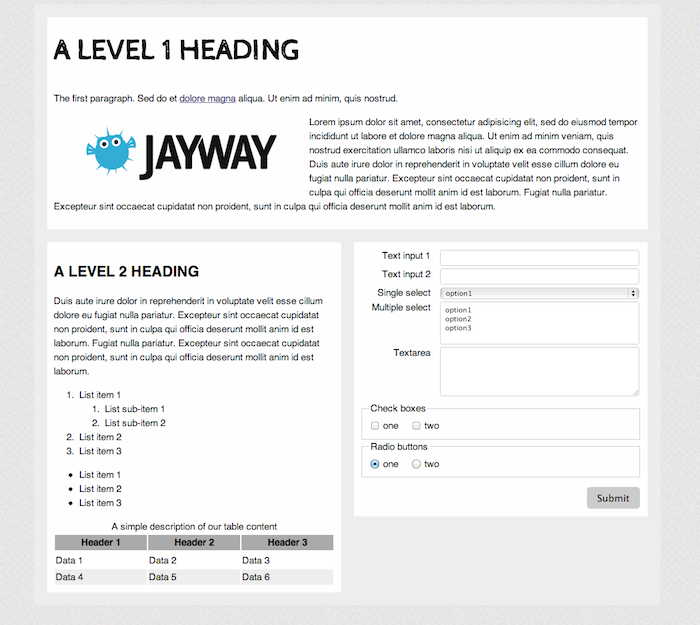
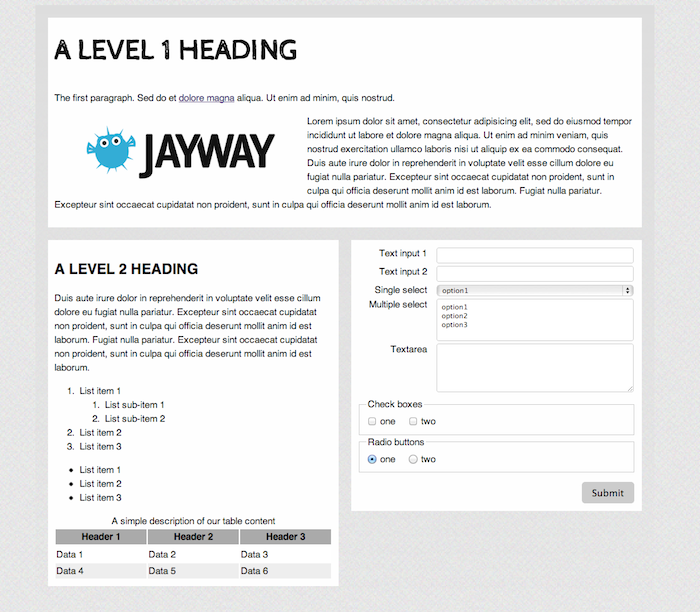
Styled the freeride a bit more.

diff --git a/html-css-course/labs/lab11/solution-styles.css b/html-css-course/labs/lab11/solution-styles.css
@@ -31,6 +31,13 @@ div {
     margin: 0px auto;
     width: 960px;
     background-color: #ededed;
+    background: -moz-linear-gradient(top, rgba(221,221,221,1) 0%, rgba(221,221,221,0) 100%); /* FF3.6+ */
+    background: -webkit-gradient(linear, left top, left bottom, color-stop(0%,rgba(221,221,221,1)), color-stop(100%,rgba(221,221,221,0))); /* Chrome,Safari4+ */
+    background: -webkit-linear-gradient(top, rgba(221,221,221,1) 0%,rgba(221,221,221,0) 100%); /* Chrome10+,Safari5.1+ */
+    background: -o-linear-gradient(top, rgba(221,221,221,1) 0%,rgba(221,221,221,0) 100%); /* Opera 11.10+ */
+    background: -ms-linear-gradient(top, rgba(221,221,221,1) 0%,rgba(221,221,221,0) 100%); /* IE10+ */
+    background: linear-gradient(to bottom, rgba(221,221,221,1) 0%,rgba(221,221,221,0) 100%); /* W3C */
+    filter: progid:DXImageTransform.Microsoft.gradient( startColorstr='#dddddd', endColorstr='#00dddddd',GradientType=0 ); /* IE6-9 */    
 }
     
 form div {
